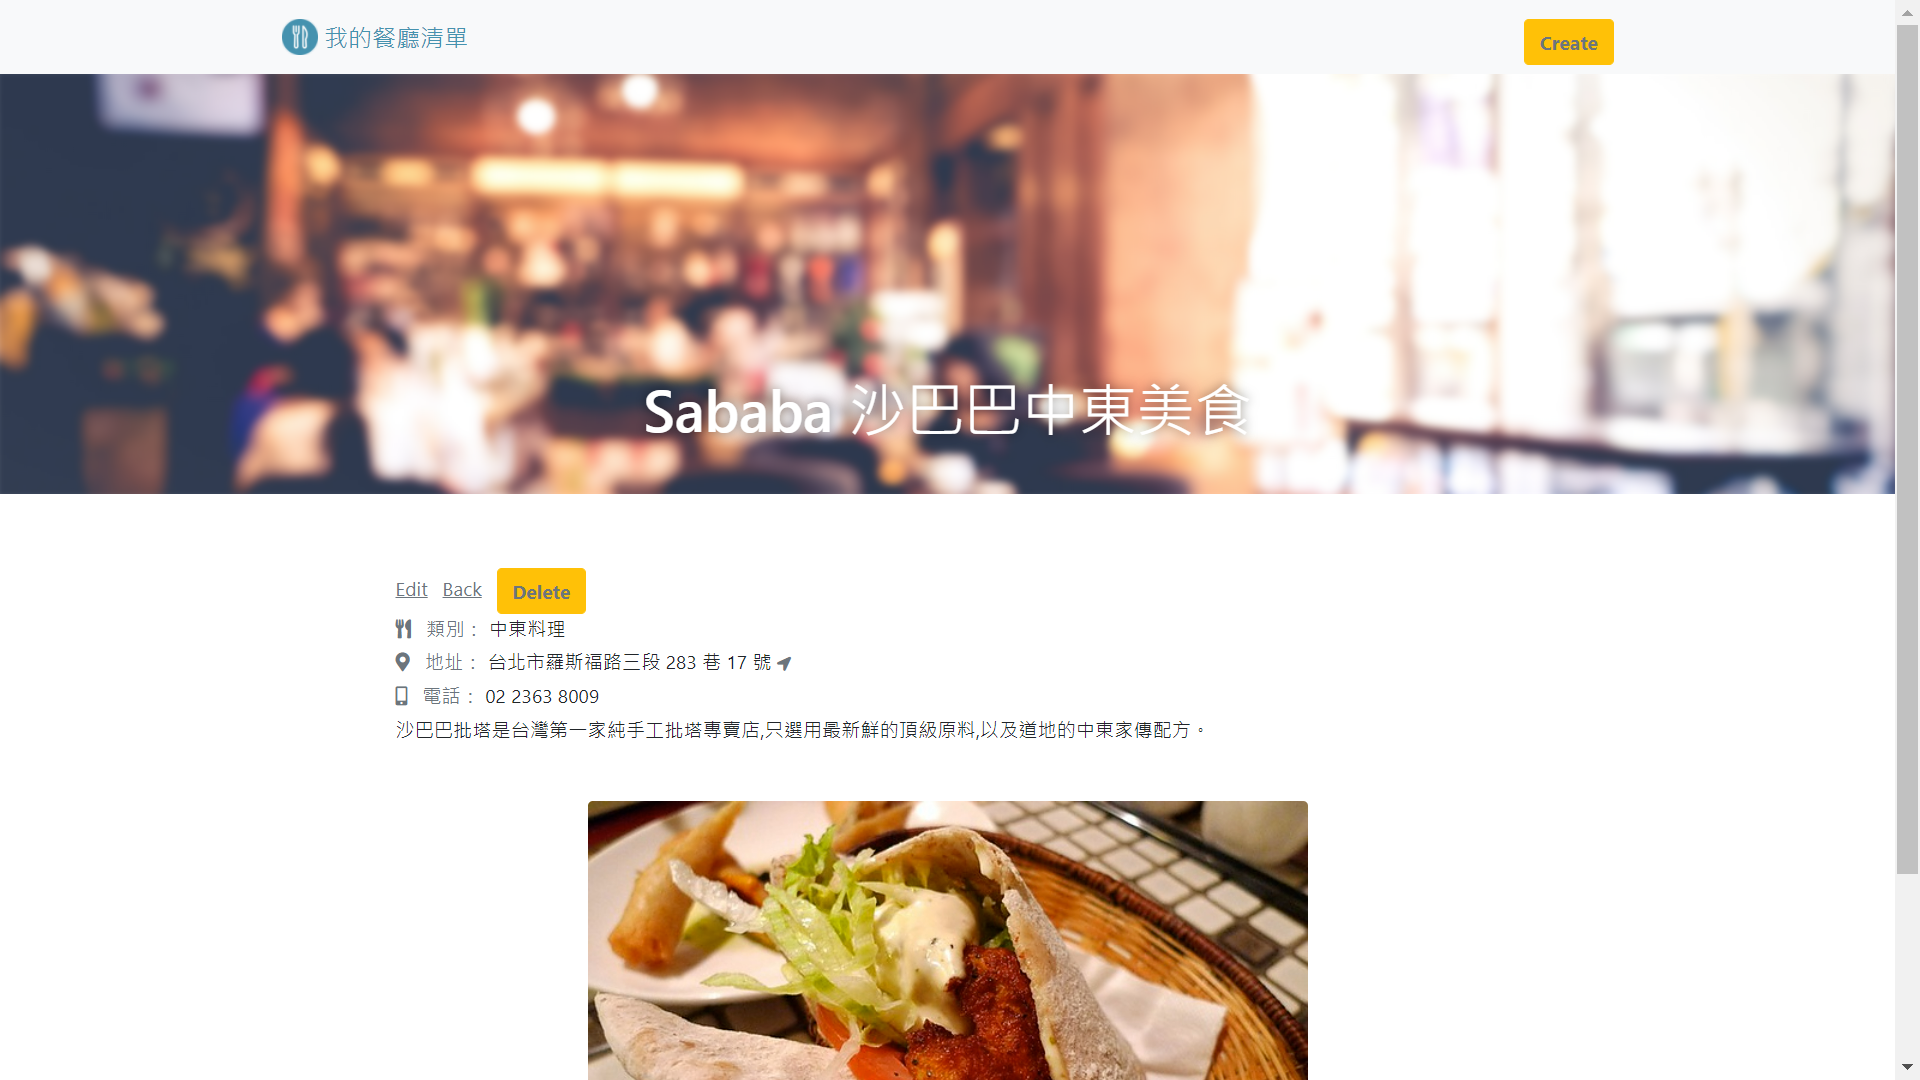
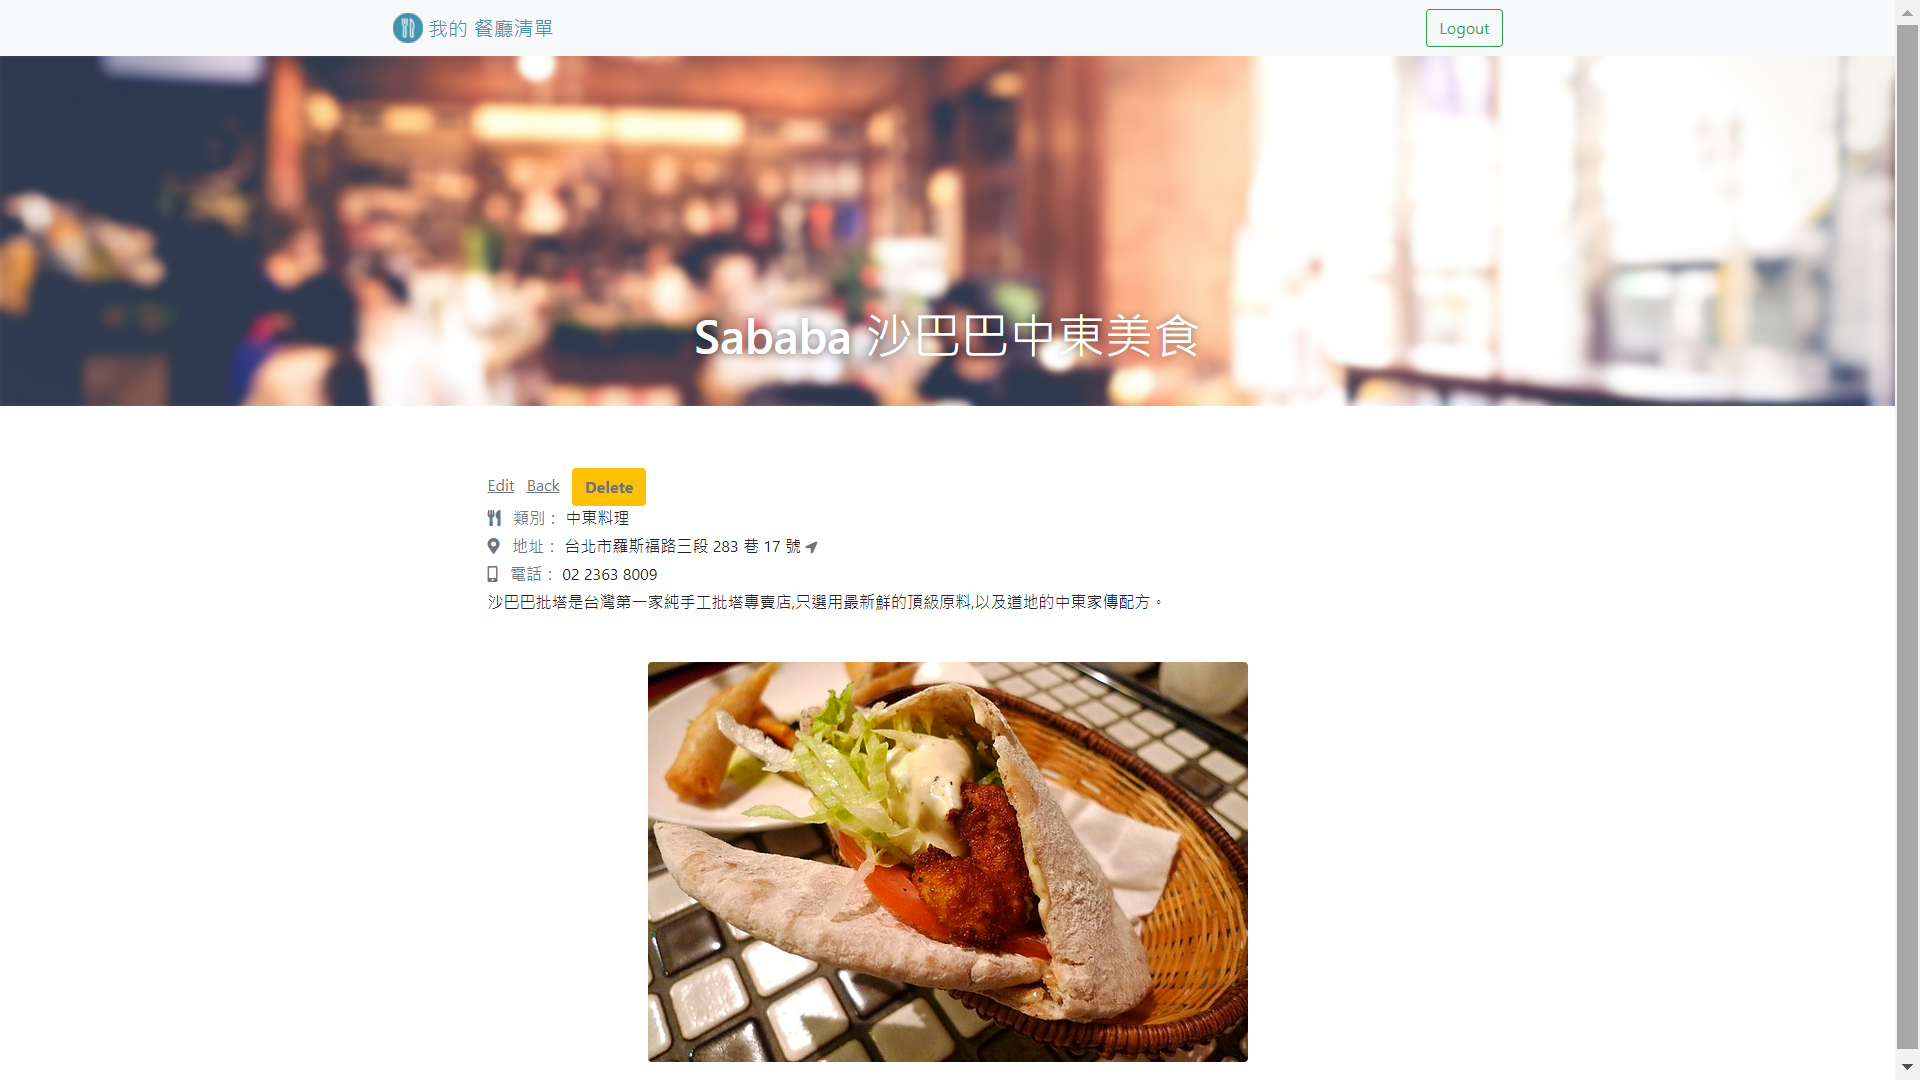
modify README.md

diff --git a/README.md b/README.md
@@ -1,33 +1,35 @@
-# 我的餐廳清單
-此餐廳清單收藏了我最喜歡的8家餐廳，除了可以看到餐廳的詳細資訊，還可以透過餐廳名稱或餐廳類別來找到特定的餐廳，且能新增餐廳、修改餐廳資訊、刪除餐廳與設定餐廳排序
+# 餐廳清單
+此餐廳清單可收藏了最喜歡的餐廳，除了可以看到餐廳的詳細資訊，還可以透過餐廳名稱或餐廳類別來找到特定的餐廳，且能新增餐廳、修改餐廳資訊、刪除餐廳與設定餐廳排序
 
 ## 專案畫面
-![Index](https://github.com/aziz0916/restaurant_list_a8_revise3/blob/main/public/images/index.png)
-![Detail](https://github.com/aziz0916/restaurant_list_a8_revise3/blob/main/public/images/detail.png)
-![Match](https://github.com/aziz0916/restaurant_list_a8_revise3/blob/main/public/images/match.png)
-![Unmatch](https://github.com/aziz0916/restaurant_list_a8_revise3/blob/main/public/images/unmatch.png)
-![New](https://github.com/aziz0916/restaurant_list_a8_revise3/blob/main/public/images/new.png)
-![Edit](https://github.com/aziz0916/restaurant_list_a8_revise3/blob/main/public/images/edit.png)
-![Sort](https://github.com/aziz0916/restaurant_list_a8_revise3/blob/main/public/images/sort.png)
+![register](https://github.com/aziz0916/restaurant_list_s3_a1/blob/main/public/images/register.png)
+![login](https://github.com/aziz0916/restaurant_list_s3_a1/blob/main/public/images/login.png)
+![Index](https://github.com/aziz0916/restaurant_list_s3_a1/blob/main/public/images/index.png)
+![Detail](https://github.com/aziz0916/restaurant_list_s3_a1/blob/main/public/images/detail.png)
+![New](https://github.com/aziz0916/restaurant_list_s3_a1/blob/main/public/images/new.png)
+![Edit](https://github.com/aziz0916/restaurant_list_s3_a1/blob/main/public/images/edit.png)
+![Sort](https://github.com/aziz0916/restaurant_list_s3_a1/blob/main/public/images/sort.png)
 
 ## 專案功能
-1. 使用者可以在首頁看到所有餐廳與它們的簡單資料：
+1. 使用者可以在註冊頁進行帳號註冊
+2. 使用者可以在登入頁進行帳號登入
+3. 使用者可以在首頁看到所有餐廳與它們的簡單資料：
    + 餐廳照片
    + 餐廳名稱
    + 餐廳分類
    + 餐廳評分
-2. 使用者可以再點進去看餐廳的詳細資訊：
+4. 使用者可以再點進去看餐廳的詳細資訊：
    + 類別
    + 地址
    + 電話
    + 描述
    + 圖片
-3. 使用者可以透過搜尋餐廳名稱來找到特定的餐廳
-4. 使用者可以透過搜尋餐廳類別來找到特定的餐廳
-5. 使用者可以新增一家餐廳
-6. 使用者可以修改一家餐廳的資訊
-7. 使用者可以刪除一家餐廳
-8. 使用者可以設定餐廳排序
+5. 使用者可以透過搜尋餐廳名稱來找到特定的餐廳
+6. 使用者可以透過搜尋餐廳類別來找到特定的餐廳
+7. 使用者可以新增一家餐廳
+8. 使用者可以修改一家餐廳的資訊
+9. 使用者可以刪除一家餐廳
+10. 使用者可以設定餐廳排序
 
 ## 使用工具
 - [Visual Studio Code](https://visualstudio.microsoft.com/zh-hant/) - 開發環境
@@ -37,17 +39,24 @@
 - [Mongoose](https://www.npmjs.com/package/mongoose) - MongoDB 的 ODM 可以在程式中與資料庫溝通
 - [body-parser](https://www.npmjs.com/package/body-parser) - Express用於解析請求(body)資料的中介軟體
 - [method-override](https://www.npmjs.com/package/method-override) - 增加除瀏覽器自帶的GET與POST以外的偽請求，增加介面語義化
+- [express-session](https://www.npmjs.com/package/express-session) - 儲存認證結果
+- [Passport](https://www.npmjs.com/package/passport) - 認證使用者
+- [passport-local](https://www.npmjs.com/package/passport-local) - 使用username和password方式進行身分驗證
+- [connect-flash](https://www.npmjs.com/package/connect-flash) - 製作系統訊息功能
+- [bcrypt.js](https://www.npmjs.com/package/bcryptjs) - 進行雜湊加密
+- [passport-facebook](https://www.npmjs.com/package/passport-facebook) - 使用Facebook提供auth
+- [dotenv](https://www.npmjs.com/package/dotenv) - 將敏感資訊寫入環境變數
 
 ## 安裝
 1. 開啟終端機(Terminal)，Clone 此專案至本機電腦
 
 ```
-git clone https://github.com/aziz0916/restaurant_list_a8_revise3.git
+git clone https://github.com/aziz0916/restaurant_list_s3_a1.git
 ```
 2. 進入存放此專案的資料夾
 
 ```
-cd restaurant_list_a8_revise3
+cd restaurant_list_s3_a1
 ```
 3. 安裝 npm 套件
 
